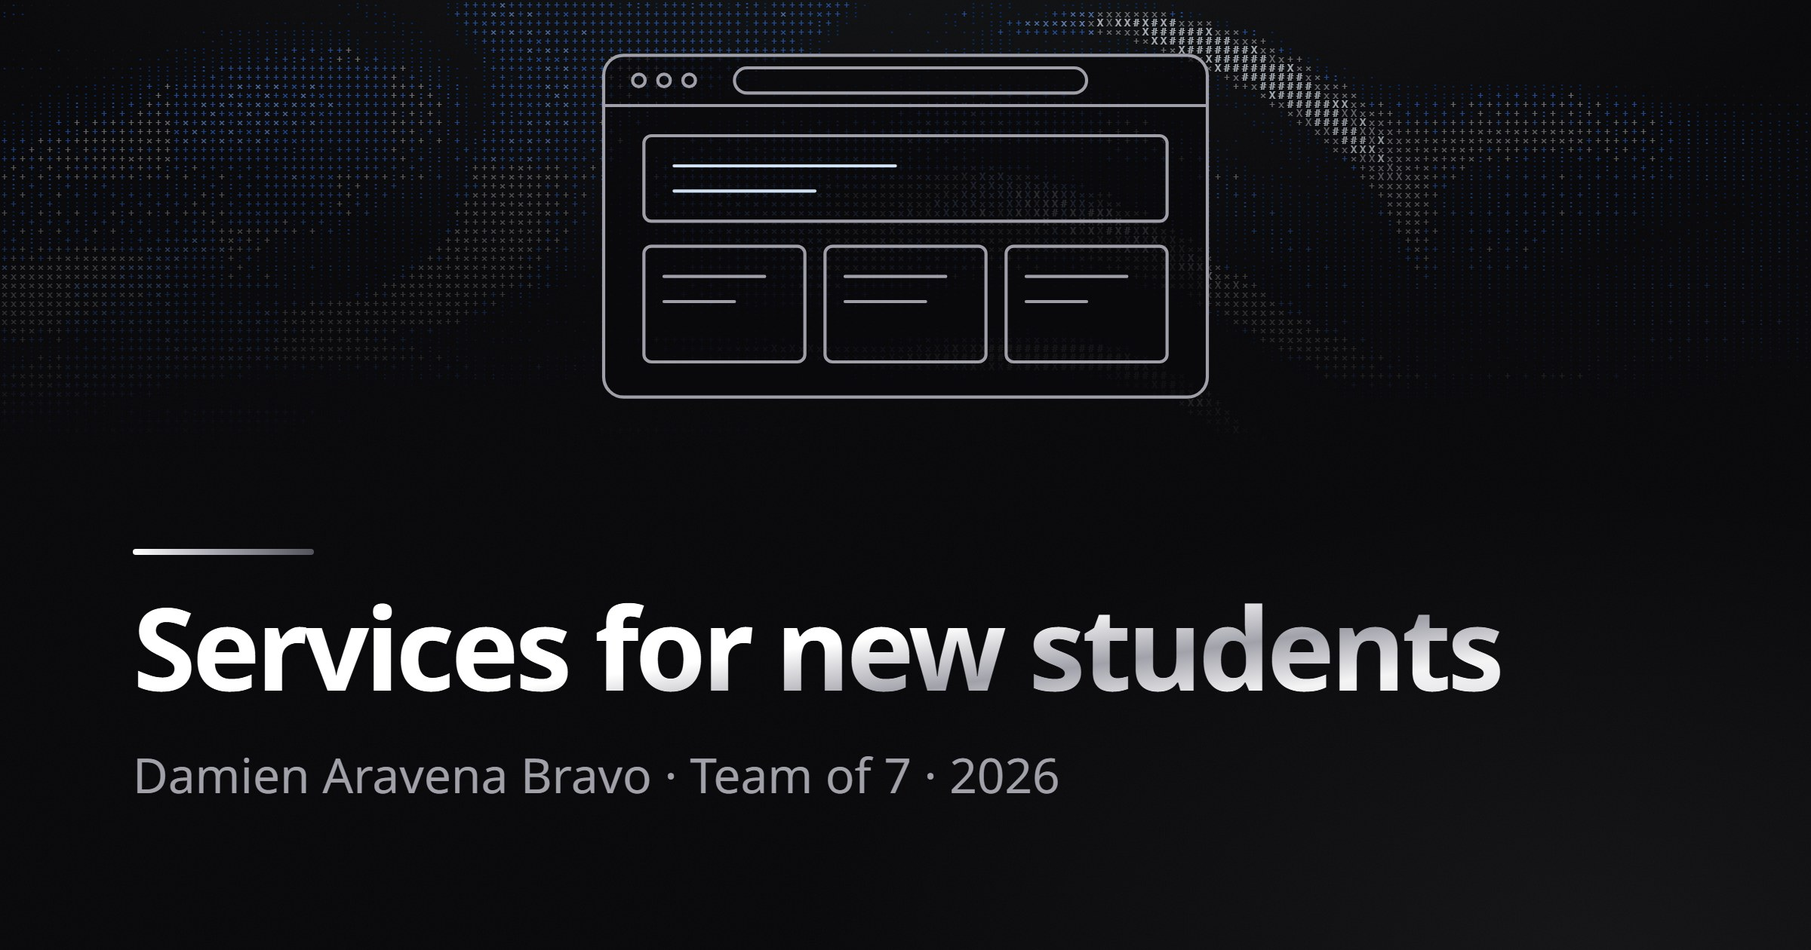
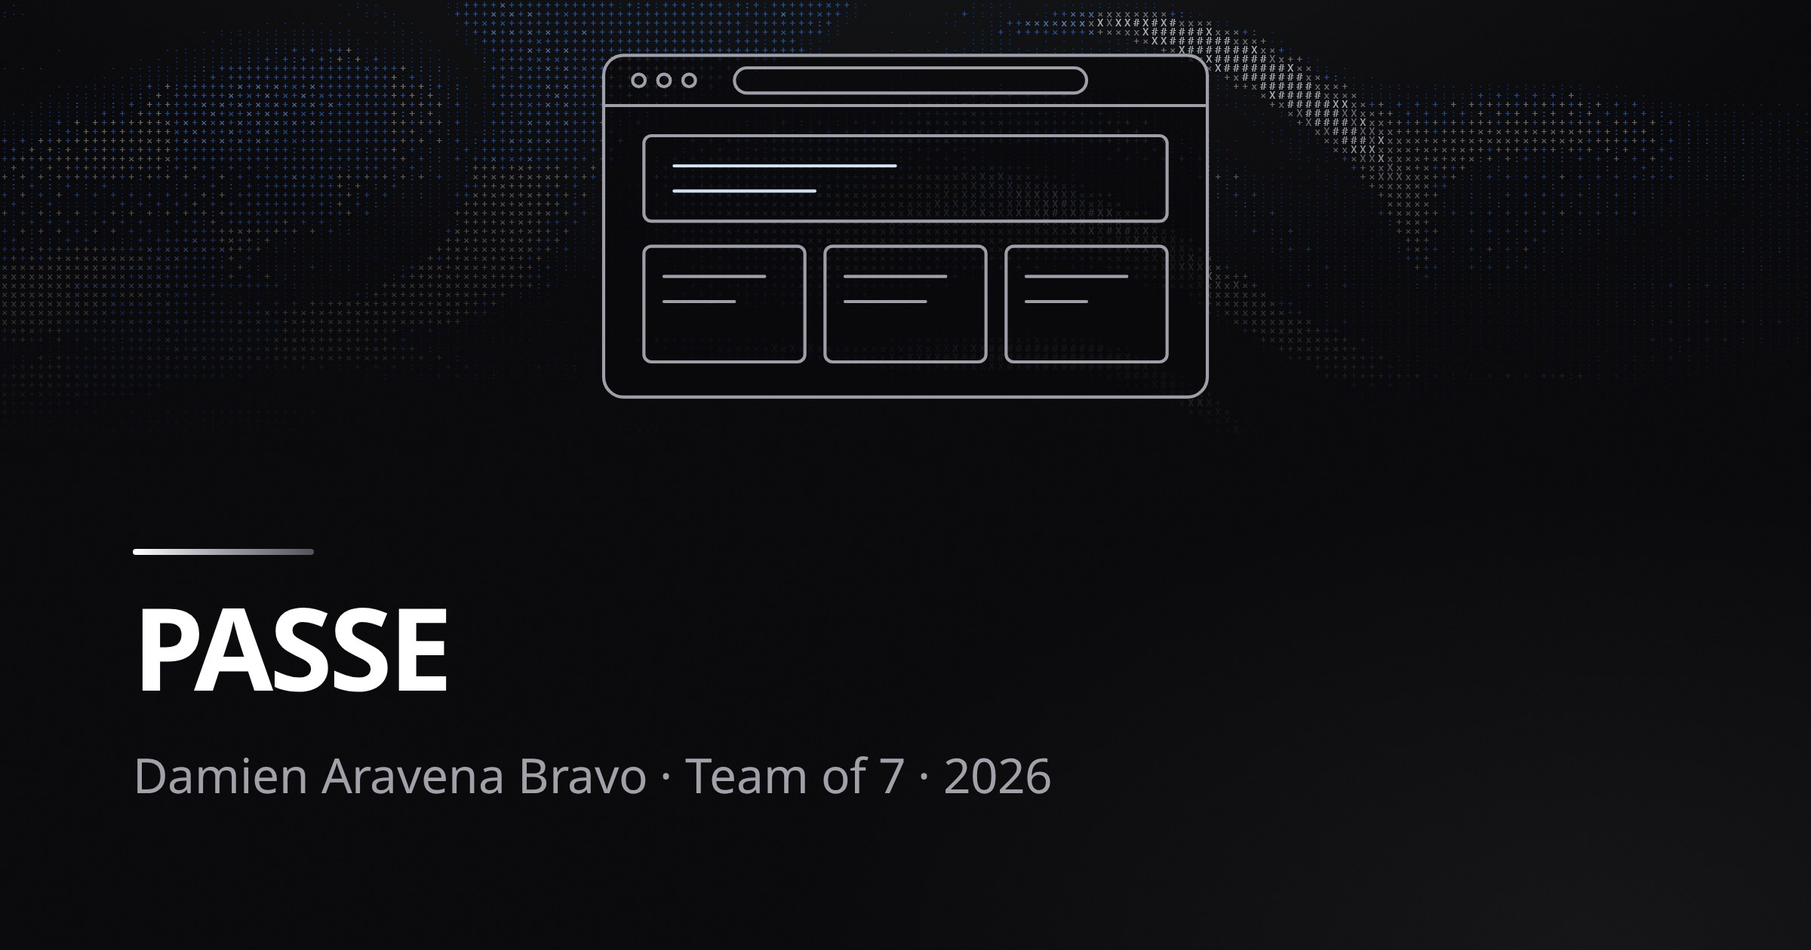
feat(content): rename the SAE 3.01 project to PASSE and add its phase 1 progress

diff --git a/src/content/projects/sae-3-01-2026.md b/src/content/projects/sae-3-01-2026.md
@@ -1,7 +1,7 @@
 ---
-title: "Services pour les nouveaux étudiants"
-summary: "Application web qui rassemble les aides utiles aux nouveaux étudiants grenoblois en situation de précarité, menée comme chef de projet d'une équipe de sept."
-tags: ["Leaflet", "OpenStreetMap", "Jira", "Git"]
+title: "PASSE"
+summary: "Point d'Accès aux Services de Soutien Étudiant : application web qui guide les nouveaux étudiants grenoblois vers les aides de santé et d'alimentation, menée comme chef de projet d'une équipe de sept."
+tags: ["Symfony", "Twig", "PostgreSQL", "Leaflet", "OpenStreetMap", "Docker", "Figma", "Jira", "Git"]
 kind: "web-app"
 status: "en-cours"
 team: "En équipe de 7"
@@ -10,13 +10,15 @@ order: 2
 cover: web
 featured: true
 role:
-  - "Chef de projet : organisation de l’équipe de sept, sprints sur Jira, suivi du planning et des rendus de chaque phase."
-  - "Note de cadrage : problème, périmètre classé avec la méthode MoSCoW, registre des risques et planning."
+  - "Chef de projet : organisation de l’équipe de sept en sprints Scrum sur Jira, rituels, suivi du planning et lien avec les coachs."
+  - "Cadrage du projet : périmètre classé avec la méthode MoSCoW, registre de 21 contraintes et risques cotés selon leur criticité, stratégie de repli."
+  - "Planification des sprints : capacité de l’équipe estimée en story points, charge de chaque sprint comparée à cette capacité."
   - "Charte graphique de l’application : palette tirée de l’identité de l’université, typographies et matrice de contrastes."
 sae: ["3.Real.01"]
 ac: ["AC21.01", "AC21.02", "AC21.03", "AC22.01", "AC23.01", "AC23.02", "AC24.03", "AC24.04", "AC25.02", "AC25.03", "AC25.04", "AC26.02", "AC26.03", "AC26.04"]
 learned:
   - "Cadrer un produit à partir d’un pitch : problème, utilisateurs visés, priorités et risques."
+  - "Coter des risques selon leur impact et leur probabilité, et prévoir une version de repli pour chaque cas d’utilisation."
   - "Concevoir une charte graphique accessible, aux contrastes vérifiés selon les WCAG 2.2 et le RGAA."
   - "Organiser une équipe en sprints : points courts, relecture par un pair et définition du terminé."
 ---
@@ -34,47 +36,85 @@ trois semaines à temps plein.
 
 Le sujet commun : faire découvrir l'environnement universitaire grenoblois à de
 futurs étudiants, grâce à des services personnalisés. L'Université Grenoble
-Alpes accueille près de 60 000 étudiants sur une quinzaine de sites. Après une
+Alpes accueille environ 57 000 étudiants sur une quinzaine de sites. Après une
 séance de créativité, nous avons présenté nos pitchs le 23 octobre devant les
 coachs ; celui retenu vise les nouveaux étudiants en situation de précarité. Les
 aides existent, mais elles sont dispersées entre l'université, le CROUS, la
 CAF, la Métropole et les associations : beaucoup d'étudiants les découvrent
 trop tard, ou jamais.
 
+Notre application s'appelle PASSE, pour Point d'Accès aux Services de Soutien
+Étudiant. C'est un guide d'orientation : elle informe et renvoie vers les
+services officiels, sans s'y substituer.
+
 ## Objectifs
 
-- Réunir en un seul endroit les aides utiles à un nouvel étudiant : santé,
-  alimentation, sport, aides financières.
-- Proposer un espace personnel filtré selon ses besoins et trié par distance,
-  sur une carte.
-- Atteindre chaque service en trois clics au plus, sur téléphone d'abord.
+- Rassembler au même endroit les aides de santé et d'alimentation à Grenoble ;
+  les autres thèmes (aides financières, logement, transports, sport) renvoient
+  vers le site officiel.
+- Tout consulter sans compte : fiches, carte des lieux et calendrier des
+  distributions. Un compte, complété par un court questionnaire de besoins,
+  personnalise l'accueil.
+- Atteindre toute fiche en trois clics au plus depuis l'accueil, sur téléphone
+  d'abord, sans jamais afficher le mot « précarité », pour que personne ne se
+  sente étiqueté.
+- Laisser les associations locales tenir leur fiche et publier elles-mêmes
+  leurs distributions, une fois leur demande validée par un administrateur.
 - Donner une information fiable : chaque fiche cite sa source et sa date de
-  vérification.
-- Respecter le RGPD et la sécurité : données minimales, suppression du compte,
-  mots de passe hachés, HTTPS et analyse des risques OWASP.
+  vérification, et la démonstration en comptera au moins trente, réelles.
+- Respecter le RGPD et la sécurité : seule l'adresse électronique est
+  obligatoire, le besoin de soutien psychologique est facultatif et demande un
+  consentement séparé, les mots de passe sont hachés, le site passe en HTTPS et
+  suit le Top 10 de l'OWASP.
 
 ## Réalisation
 
-### Phase 1 : cadrage et analyse
+### Phase 1 : cadrage et besoins
 
-En cours, à rendre le 20 novembre 2026. La note de cadrage pose le problème,
-le périmètre classé par priorité avec la méthode MoSCoW, un registre de huit
-risques et le planning des trois phases.
+Rendue le 18 novembre 2026, sous la forme d'un dossier de conception.
 
-L'application sera web et responsive, pensée pour le téléphone, sans
-application native. À l'inscription, l'étudiant coche ses centres d'intérêt et
-ses besoins par thème, jamais sous forme de données médicales ; son adresse
-reste facultative, le campus suffit. Les premiers pôles sont la santé, avec les
-psychologues et médecins de l'université et une carte des centres de santé, et
-l'alimentation, avec un fil des distributions solidaires. Un espace
-d'administration permettra de saisir services et événements, chacun avec sa
-source. Les cartes reposeront sur Leaflet et OpenStreetMap, le géocodage sur la
-Géoplateforme de l'IGN.
+Le cadrage s'appuie sur deux enquêtes nationales récentes, de Cop1 avec l'Ifop
+et de l'Observatoire national de la vie étudiante : un étudiant sur trois a
+déjà sauté des repas faute d'argent, plus de la moitié se disent mal informés
+sur les aides psychologiques, et moins de trois étudiants en détresse sur dix
+ont consulté. Cinq solutions existantes ont été comparées, du portail étudiant
+de l'UGA à MesServices.etudiant.gouv.fr : aucune ne réunit un filtrage selon le
+profil, une carte, la santé et l'alimentation, et la publication par les
+associations locales.
 
-Cette phase comprend aussi un questionnaire et des entretiens auprès
-d'étudiants, les personas, les exigences, les récits utilisateur, les cas
-d'utilisation, le diagramme de classes, des maquettes basse fidélité et une
-étude de faisabilité.
+Le périmètre de la version finale est classé avec la méthode MoSCoW. Un registre
+recense 21 contraintes et risques, cotés selon leur impact et leur probabilité ;
+après traitement, aucun ne dépasse une criticité de 4 sur 9. Une stratégie de
+repli fixe, pour chaque cas d'utilisation, la version réduite à livrer si le
+temps manque, plutôt que de l'abandonner.
+
+Quatre personas, du primo-étudiant de 17 ans arrivé seul à Grenoble à la
+présidente d'une association d'aide alimentaire, donnent 14 récits
+utilisateur. Les 27 besoins fonctionnels sont regroupés en 15 cas
+d'utilisation pour cinq acteurs (visiteur, étudiant inscrit, étudiant vérifié,
+association, administrateur) : 14 Must, 7 Should et 6 Could. Les dix exigences
+non fonctionnelles sont mesurables et ont chacune leur méthode de
+vérification : un service trouvé en moins de deux minutes, un score
+d'utilisabilité SUS d'au moins 70, le niveau AA des WCAG 2.2, un affichage en
+moins de 2,5 s en 4G. L'inscription, la publication d'une distribution et la
+revendication d'une fiche par une association sont modélisées par un logigramme
+et deux diagrammes BPMN.
+
+### Architecture et choix techniques
+
+L'équipe connaît PHP, mais aucun de nous n'avait encore utilisé Symfony ni
+Twig. La pile retenue reste donc proche de ces acquis : Symfony 7 et Twig pour
+des pages rendues côté serveur, légères sur un téléphone modeste, PostgreSQL 16,
+Leaflet et OpenStreetMap pour la carte, EasyAdmin pour le back-office. Chaque
+développeur la validera par une preuve de concept au sprint 3.
+
+L'application tournera sur deux machines virtuelles de l'IUT2. La VM
+applicative est la seule exposée à Internet, en HTTPS ; la VM de données
+n'accepte la base que depuis la première, en TLS. Les avis et les contenus
+proposés sont contrôlés par des règles avant publication, et une IA locale
+pourra s'y ajouter en option, sans qu'aucun texte d'étudiant ne quitte les
+serveurs de l'IUT. Faute de serveur de courriel sur les VM, les décisions
+s'affichent dans un centre de notifications sur le site.
 
 ### Charte graphique
 
@@ -83,23 +123,38 @@ sur son site plutôt que dans le guide de 2016 : orange et bleu nuit,
 typographies Calistoga et Open Sans. Pensée pour le téléphone, elle vise le
 niveau AA des WCAG 2.2, vérifié avec le RGAA : une matrice de contrastes fixe
 les couleurs permises pour chaque texte, et rien ne déborde à 320 px de large.
+Les fils de fer des 27 écrans, 24 sur téléphone et 3 sur ordinateur, sont en
+cours sur Figma.
 
 ### Organisation
 
-L'équipe travaille en sprints suivis sur Jira, avec Git pour le code et les
-livrables. Chaque séance commence par un point de dix minutes, et une tâche
-n'est terminée qu'une fois relue par un pair et ses tests passés. Les rôles ont
-été répartis d'après les résultats du test de Belbin.
+L'équipe compte cinq étudiants du parcours RA et deux du parcours DACS. Elle
+suit Scrum en sprints de deux semaines, suivis sur Jira, avec Git pour le code
+et les livrables et Docker Compose pour un même environnement sur chaque poste.
+Chaque séance commence par un point de dix minutes (fait, à faire, blocages),
+et une tâche n'est terminée qu'une fois relue par un pair et fusionnée sur Git.
+Chaque domaine a un garant et un suppléant, répartis selon le parcours de
+chacun puis confrontés au test de Belbin ; une matrice RACI précise qui
+réalise, répond, est consulté ou informé pour chaque lot de travail.
+
+Comme chef de projet, j'ai estimé la capacité de l'équipe : 28 heures
+garanties par semaine, dont 80 % planifiées pour absorber absences et imprévus,
+soit 22 story points garantis par sprint. La charge de chaque sprint est
+comparée à cette capacité, et les stories Should n'entrent dans le dernier
+qu'en cas d'avance.
 
 ## À venir
 
-- **Phase 2**, pour le 18 décembre 2026 : modélisation, architecture
-  logicielle, choix du langage, du framework et de la base de données, mise en
-  place de l'environnement technique, suivi des risques et préparation des
-  données.
-- **Phase 3**, pour le 22 janvier 2027 : développement et tests, puis dossier
-  de projet, soutenance et démonstration, après une présentation orale en
-  anglais le 15 janvier.
+- **Phase 2**, pour le 18 décembre 2026, encore consacrée à la conception :
+  modèle de données (MCD puis MLD) et jeu de test, maquettes conformes à la
+  charte, choix techniques validés par des preuves de concept, et
+  environnements prêts pour le développement : deux VM durcies, HTTPS,
+  sauvegarde et intégration continue.
+- **Phase 3**, pour le 22 janvier 2027 : développement des Must en janvier, en
+  commençant par la consultation des fiches sans compte, saisie de trente
+  fiches réelles, tests de sécurité et tests utilisateurs, puis soutenance
+  finale et démonstration, après une présentation orale en anglais le
+  15 janvier.
 
-Cette fiche sera complétée au fil du projet : technologies retenues, captures
-de l'application et bilan.
+Cette fiche sera complétée au fil du projet : captures de l'application et
+bilan.

diff --git a/src/content/projects/en/sae-3-01-2026.md b/src/content/projects/en/sae-3-01-2026.md
@@ -1,7 +1,7 @@
 ---
-title: "Services for new students"
-summary: "A web application that brings together the support available to new students in Grenoble facing financial hardship, which I am leading as project manager of a team of seven."
-tags: ["Leaflet", "OpenStreetMap", "Jira", "Git"]
+title: "PASSE"
+summary: "A web application that guides new students in Grenoble facing financial hardship to health and food support, which I am leading as project manager of a team of seven."
+tags: ["Symfony", "Twig", "PostgreSQL", "Leaflet", "OpenStreetMap", "Docker", "Figma", "Jira", "Git"]
 kind: "web-app"
 status: "en-cours"
 team: "Team of 7"
@@ -10,13 +10,15 @@ order: 2
 cover: web
 featured: true
 role:
-  - "Project manager: organizing the team of seven and its sprints on Jira, tracking the schedule and the deliverables of each phase."
-  - "Project charter: problem statement, scope prioritized with the MoSCoW method, risk register and schedule."
+  - "Project manager: organizing the team of seven in Scrum sprints on Jira, running the rituals, tracking the schedule and liaising with the mentors."
+  - "Project framing: scope prioritized with the MoSCoW method, a register of 21 constraints and risks scored by criticality, a fallback strategy."
+  - "Sprint planning: the team’s capacity estimated in story points, and each sprint’s workload checked against it."
   - "The application’s style guide: a palette drawn from the university’s identity, typefaces and a contrast matrix."
 sae: ["3.Real.01"]
 ac: ["AC21.01", "AC21.02", "AC21.03", "AC22.01", "AC23.01", "AC23.02", "AC24.03", "AC24.04", "AC25.02", "AC25.03", "AC25.04", "AC26.02", "AC26.03", "AC26.04"]
 learned:
   - "Framing a product from a pitch: problem, target users, priorities and risks."
+  - "Scoring risks by impact and likelihood, and planning a fallback version for each use case."
   - "Designing an accessible style guide, with contrast checked against WCAG 2.2 and the RGAA."
   - "Running a team in sprints: short stand-ups, peer review and a definition of done."
 ---
@@ -32,46 +34,83 @@ teams of six or seven students work on it, each mentored by two teachers: ten
 weeks of two half-days, then three full-time weeks.
 
 The shared brief: help future students discover university life in Grenoble
-through personalized services. The Université Grenoble Alpes welcomes nearly
-60,000 students across some fifteen sites. After a creativity session, we
+through personalized services. The Université Grenoble Alpes welcomes about
+57,000 students across some fifteen sites. After a creativity session, we
 presented our pitches to the mentors on October 23; the one selected targets
-new students facing financial hardship. Support exists, but it is scattered across
-the university, the CROUS student services, the family allowance office, the
-metropolitan area and local associations: many students find out about it too
-late, or never.
+new students facing financial hardship. Support exists, but it is scattered
+across the university, the CROUS student services, the family allowance office,
+the metropolitan area and local associations: many students find out about it
+too late, or never.
+
+Our application is called PASSE, the French acronym for "Access Point to
+Student Support Services". It is a guide: it informs students and points them
+to the official services, without replacing them.
 
 ## Goals
 
-- Bring together in one place the support a new student needs: health, food,
-  sport, financial aid.
-- Offer a personal space filtered by the student's needs and sorted by
-  distance, on a map.
-- Reach any service in three clicks at most, on a phone first.
-- Provide reliable information: every entry cites its source and the date it
-  was last checked.
-- Comply with GDPR and security practice: minimal data, account deletion,
-  hashed passwords, HTTPS and an OWASP risk analysis.
+- Bring together the health and food support available in Grenoble; other
+  topics (financial aid, housing, transport, sport) link to the official site.
+- Let anyone browse without an account: service pages, a map of places and a
+  calendar of food distributions. An account, with a short needs questionnaire,
+  personalizes the home page.
+- Reach any service page in three clicks at most from the home page, on a phone
+  first, without ever showing the word "hardship", so that no one feels
+  labeled.
+- Let local associations manage their own page and publish their food
+  distributions, once an administrator has approved their request.
+- Provide reliable information: every page cites its source and the date it
+  was last checked, and the demo will include at least thirty real ones.
+- Comply with GDPR and security practice: only an email address is required,
+  the need for psychological support is optional and asks for separate consent,
+  passwords are hashed, the site runs over HTTPS and follows the OWASP Top 10.
 
 ## Work
 
-### Phase 1: framing and analysis
+### Phase 1: framing and requirements
 
-In progress, due November 20, 2026. The project charter sets out the problem,
-the scope prioritized with the MoSCoW method, a register of eight risks and the
-schedule for all three phases.
+Delivered on November 18, 2026 as a design report.
 
-The application will be a responsive web app, designed for phones, with no
-native app. When signing up, students tick their interests and needs by theme,
-never as medical data; their address is optional, as the campus is enough. The
-first sections cover health, with the university's psychologists and doctors
-and a map of health centers, and food, with a feed of free food distributions.
-An admin area will let staff enter services and events, each with its source.
-Maps will rely on Leaflet and OpenStreetMap, geocoding on the IGN's
-Géoplateforme.
+The framing draws on two recent national surveys, by the Cop1 association with
+Ifop and by the French Observatory of Student Life: one student in three has
+already skipped meals for lack of money, over half say they are poorly informed
+about psychological support, and fewer than three in ten students in distress
+have seen someone. We compared five existing solutions, from the UGA student
+portal to the government's MesServices site: none combines filtering by
+profile, a map, health and food together, and publishing by local
+associations.
 
-This phase also includes a survey and interviews with students, personas,
-requirements, user stories, use cases, the class diagram, low-fidelity mockups
-and a feasibility study.
+The scope of the final version is prioritized with the MoSCoW method. A
+register lists 21 constraints and risks, scored by impact and likelihood; once
+treated, none exceeds a criticality of 4 out of 9. A fallback strategy sets,
+for each use case, the reduced version to deliver if time runs short, rather
+than dropping it.
+
+Four personas, from a 17-year-old who has just arrived in Grenoble alone to the
+president of a food aid association, lead to 14 user stories. The 27
+functional requirements are grouped into 15 use cases for five actors
+(visitor, registered student, verified student, association, administrator):
+14 Must, 7 Should and 6 Could. The ten non-functional requirements are
+measurable, each with its own verification method: a service found in under
+two minutes, a SUS usability score of at least 70, WCAG 2.2 level AA, a page
+displayed in under 2.5 s on 4G. Signing up, publishing a food distribution and
+an association claiming its page are modeled with a flowchart and two BPMN
+diagrams.
+
+### Architecture and technical choices
+
+The team knows PHP, but none of us had used Symfony or Twig before. The chosen
+stack therefore stays close to what we know: Symfony 7 and Twig for
+server-rendered pages that stay light on a modest phone, PostgreSQL 16, Leaflet
+and OpenStreetMap for the map, EasyAdmin for the back office. Each developer
+will validate it with a proof of concept in sprint 3.
+
+The application will run on two virtual machines at the IUT2. The application
+VM is the only one exposed to the Internet, over HTTPS; the data VM only
+accepts database connections from the first one, over TLS. Reviews and
+suggested content are checked by rules before publication, and a local AI may
+be added as an option, without any student's text ever leaving the IUT's
+servers. As the VMs have no mail server, decisions are shown in a notification
+center on the site.
 
 ### Style guide
 
@@ -80,23 +119,37 @@ from its website rather than from the 2016 guidelines: orange and night blue,
 with the Calistoga and Open Sans typefaces. Designed for phones, it targets
 WCAG 2.2 level AA, checked against the RGAA, the French accessibility
 framework: a contrast matrix sets which colors each kind of text may use, and
-nothing overflows at a width of 320 px.
+nothing overflows at a width of 320 px. Wireframes for the 27 screens, 24 for
+phones and 3 for desktop, are in progress on Figma.
 
 ### Organization
 
-The team works in sprints tracked on Jira, with Git for code and deliverables.
-Each session opens with a ten-minute stand-up, and a task is only done once a
-peer has reviewed it and its tests pass. Roles were assigned based on the
-results of the Belbin test.
+The team has five students from the RA track (application development) and two
+from the DACS track (deployment and security). It follows Scrum in two-week
+sprints tracked on Jira, with Git for code and deliverables and Docker Compose
+for the same environment on every machine. Each session opens with a
+ten-minute stand-up (done, to do, blockers), and a task is only done once a
+peer has reviewed it and it is merged on Git. Each area has an owner and a
+backup, assigned by track and then checked against the Belbin test; a RACI
+matrix states who does, owns, is consulted on or informed of each work package.
+
+As project manager, I estimated the team's capacity: 28 guaranteed hours a
+week, 80% of them planned to absorb absences and the unexpected, or 22
+guaranteed story points per sprint. Each sprint's workload is checked against
+that capacity, and Should stories only make it into the last sprint if we are
+ahead.
 
 ## Coming next
 
-- **Phase 2**, due December 18, 2026: modeling, software architecture, choice
-  of language, framework and database, setting up the technical environment,
-  risk tracking and data preparation.
-- **Phase 3**, due January 22, 2027: development and tests, then the project
-  report, final presentation and demo, after an oral presentation in English on
-  January 15.
+- **Phase 2**, due December 18, 2026, still devoted to design: the data model
+  (conceptual, then logical) and a test dataset, mockups that follow the style
+  guide, technical choices validated by proofs of concept, and environments
+  ready for development: two hardened VMs, HTTPS, backups and continuous
+  integration.
+- **Phase 3**, due January 22, 2027: developing the Must features in January,
+  starting with browsing service pages without an account, entering thirty real
+  pages, security and user testing, then the final presentation and demo,
+  after an oral presentation in English on January 15.
 
-This page will be completed as the project progresses: the technologies chosen,
-screenshots of the application and a review.
+This page will be completed as the project progresses: screenshots of the
+application and a review.
